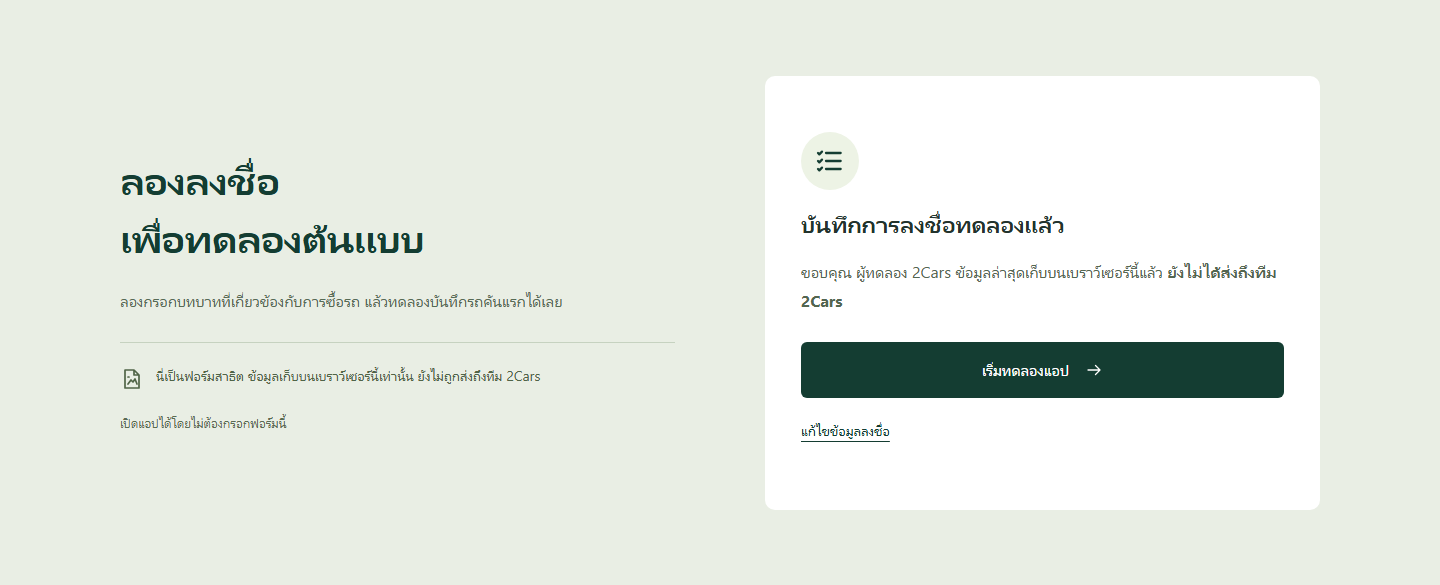
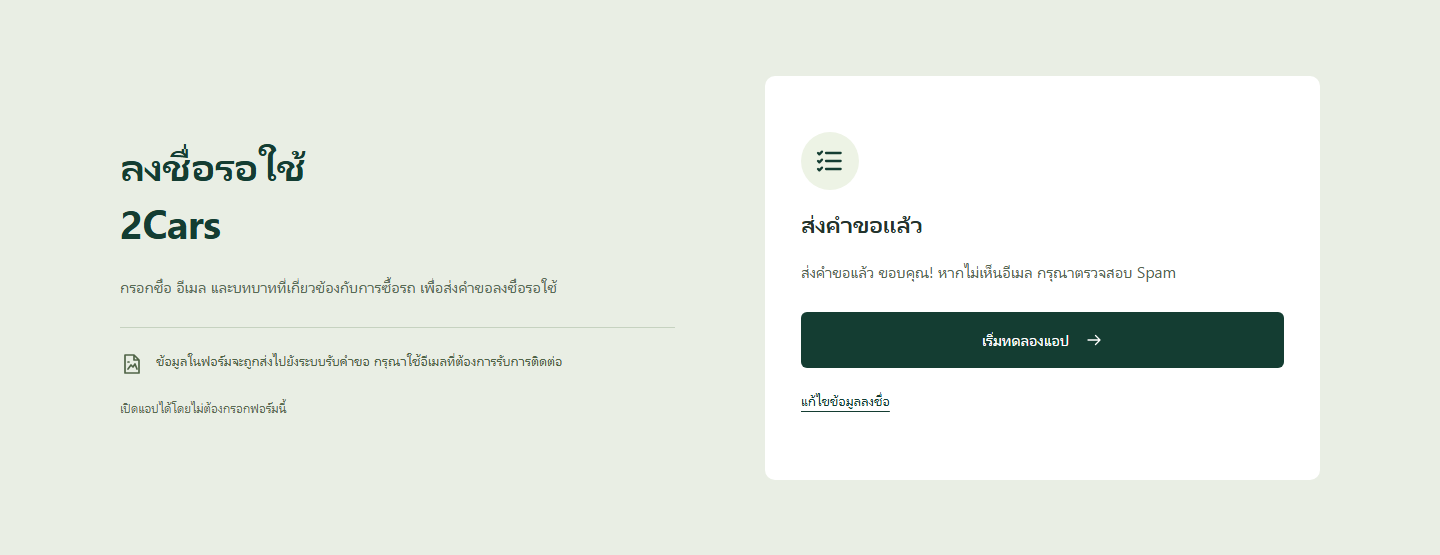
[add] Webhook for Form

diff --git a/src/Landing.tsx b/src/Landing.tsx
@@ -1,5 +1,5 @@
 import { useEffect, useRef, useState, type FormEvent } from 'react';
-import { saveDemoSignup, validateSignup, type SignupDraft, type SignupSubmission } from './signup';
+import { submitSignup, validateSignup, SIGNUP_SUCCESS, SIGNUP_FAILURE, type SignupDraft } from './signup';
 import './landing.css';
 
 function LandingIcon({ name, size = 24 }: { name: 'car' | 'checklist' | 'evidence' | 'report' | 'arrow'; size?: number }) {
@@ -30,17 +30,19 @@ const steps = [
 ];
 const faqs = [
   { question: '2Cars ยืนยันประวัติรถสวมซากได้ไหม?', answer: 'ไม่ได้ 2Cars ช่วยบันทึกข้อมูลและติดตามการตรวจของทีม ไม่เชื่อมฐานข้อมูลทางการ ไม่ยืนยันประวัติ และไม่รับรองว่ารถปลอดภัย' },
-  { question: 'ทดลองฟรี ต้องสมัครสมาชิกก่อนหรือเปล่า?', answer: 'ต้นแบบนี้ทดลองฟรีและเปิดแอปได้โดยไม่ต้องมีบัญชี ฟอร์มลงชื่อเป็นฟอร์มสาธิต ไม่จำเป็นต้องกรอกก่อนทดลองแอป' },
+  { question: 'ทดลองฟรี ต้องสมัครสมาชิกก่อนหรือเปล่า?', answer: 'ต้นแบบนี้ทดลองฟรีและเปิดแอปได้โดยไม่ต้องมีบัญชี ฟอร์มลงชื่อรอใช้แยกจากการทดลองแอป ไม่จำเป็นต้องกรอกก่อนทดลองแอป' },
   { question: 'ข้อมูลรถเก็บที่ไหน ทีมเปิดดูจากเครื่องอื่นได้ไหม?', answer: 'ข้อมูลอยู่ในเบราว์เซอร์เดิมบนอุปกรณ์เดิม ไม่มีการซิงก์ข้ามเครื่อง รุ่นทดลองนี้เหมาะกับการใช้เครื่องร่วมกันและส่งต่อรายงานให้ทีม' },
   { question: 'รูปและไฟล์หลักฐานยังอยู่หลังปิดแอปไหม?', answer: 'ชื่อไฟล์ หมายเหตุ และแหล่งข้อมูลจะบันทึกไว้ แต่ไฟล์จริงดูได้เฉพาะรอบที่แนบ เมื่อรีโหลดหรือเปิดแอปใหม่ต้องแนบไฟล์อีกครั้งเพื่อเปิดดู' },
   { question: 'รายงานส่งต่อให้ทีมได้อย่างไร?', answer: 'เปิดรายงานแล้วพิมพ์หรือบันทึกเป็น PDF ขนาด A4 หนึ่งหน้า รายงานแสดงชื่อหลักฐาน ไม่ได้ฝังไฟล์จริง และสถานะ “ตรวจแล้ว” ไม่ได้หมายถึงผ่านหรือปลอดภัย' },
 ];
 
-function DemoSignup() {
-  const [draft, setDraft] = useState<SignupDraft>({ name: '', email: '', role: '' });
+function WaitlistSignup() {
+  const [draft, setDraft] = useState<SignupDraft>({ name: '', email: '', extra: '' });
   const [errors, setErrors] = useState<Partial<Record<keyof SignupDraft, string>>>({});
   const [failure, setFailure] = useState('');
-  const [submission, setSubmission] = useState<SignupSubmission | null>(null);
+  const [submission, setSubmission] = useState(false);
+  const [isSending, setIsSending] = useState(false);
+  const sending = useRef(false);
   const form = useRef<HTMLFormElement>(null);
   const confirmationTitle = useRef<HTMLHeadingElement>(null);
   const hadSubmission = useRef(false);
@@ -49,8 +51,9 @@ function DemoSignup() {
     else if (hadSubmission.current) form.current?.querySelector<HTMLInputElement>('input')?.focus();
     hadSubmission.current = !!submission;
   }, [submission]);
-  function submit(event: FormEvent) {
+  async function submit(event: FormEvent) {
     event.preventDefault();
+    if (sending.current) return;
     setFailure('');
     const validation = validateSignup(draft);
     setErrors(validation);
@@ -58,21 +61,24 @@ function DemoSignup() {
       form.current?.querySelector<HTMLInputElement>(`[name="${Object.keys(validation)[0]}"]`)?.focus();
       return;
     }
-    try { setSubmission(saveDemoSignup(window.localStorage, draft)); }
-    catch { setFailure('บันทึกไม่สำเร็จ กรุณาตรวจการอนุญาตจัดเก็บข้อมูลของเบราว์เซอร์แล้วลองอีกครั้ง'); }
+    sending.current = true;
+    setIsSending(true);
+    try { await submitSignup(draft); setSubmission(true); }
+    catch { setFailure(SIGNUP_FAILURE); }
+    finally { sending.current = false; setIsSending(false); }
   }
   const fields: { key: keyof SignupDraft; label: string; placeholder: string; type: string; autoComplete?: string }[] = [
     { key: 'name', label: 'ชื่อ', placeholder: 'ชื่อที่ต้องการให้เรียก', type: 'text', autoComplete: 'name' },
     { key: 'email', label: 'อีเมล', placeholder: 'name@example.com', type: 'email', autoComplete: 'email' },
-    { key: 'role', label: 'คุณเกี่ยวข้องกับการซื้อรถในบทบาทใด?', placeholder: 'เช่น ผู้ดูแลเต็นท์ เจ้าของเต็นท์ หรือช่าง', type: 'text' },
+    { key: 'extra', label: 'คุณเกี่ยวข้องกับการซื้อรถในบทบาทใด?', placeholder: 'เช่น ผู้ดูแลเต็นท์ เจ้าของเต็นท์ หรือช่าง', type: 'text' },
   ];
   return <div className="signup-panel">
-    <p className="landing-sr-only" role="status" aria-live="polite">{submission ? 'บันทึกการลงชื่อทดลองบนเบราว์เซอร์นี้แล้ว ยังไม่ได้ส่งถึงทีม 2Cars' : ''}</p>
-    {submission ? <div className="signup-confirmation"><span className="signup-success-icon"><LandingIcon name="checklist" size={32} /></span><h3 id="signup-confirmation-title" tabIndex={-1} ref={confirmationTitle}>บันทึกการลงชื่อทดลองแล้ว</h3><p>ขอบคุณ {submission.name} ข้อมูลล่าสุดเก็บบนเบราว์เซอร์นี้แล้ว <strong>ยังไม่ได้ส่งถึงทีม 2Cars</strong></p><a className="landing-button" href="/app.html">เริ่มทดลองแอป<LandingIcon name="arrow" size={18} /></a><button className="landing-text-button" onClick={() => setSubmission(null)}>แก้ไขข้อมูลลงชื่อ</button></div> : <form ref={form} onSubmit={submit} noValidate aria-label="ฟอร์มลงชื่อทดลอง">
-      {fields.map(field => <label key={field.key} htmlFor={`signup-${field.key}`}>{field.label}<input id={`signup-${field.key}`} name={field.key} type={field.type} autoComplete={field.autoComplete} required maxLength={field.key === 'email' ? 254 : 120} value={draft[field.key]} placeholder={field.placeholder} aria-invalid={!!errors[field.key]} aria-describedby={errors[field.key] ? `signup-error-${field.key}` : undefined} onChange={event => { setDraft({ ...draft, [field.key]: event.target.value }); setErrors({ ...errors, [field.key]: undefined }); }} />{errors[field.key] && <span className="signup-field-error" id={`signup-error-${field.key}`}>{errors[field.key]}</span>}</label>)}
-      <p className="signup-privacy">ฟอร์มสาธิต: เก็บเฉพาะข้อมูลลงชื่อล่าสุดบนเบราว์เซอร์นี้ ยังไม่ส่งถึงทีม และไม่ส่งอีเมลอัตโนมัติ</p>
+    <p className="landing-sr-only" role="status" aria-live="polite">{submission ? SIGNUP_SUCCESS : isSending ? 'กำลังส่งคำขอ…' : ''}</p>
+    {submission ? <div className="signup-confirmation"><span className="signup-success-icon"><LandingIcon name="checklist" size={32} /></span><h3 id="signup-confirmation-title" tabIndex={-1} ref={confirmationTitle}>ส่งคำขอแล้ว</h3><p>{SIGNUP_SUCCESS}</p><a className="landing-button" href="/app.html">เริ่มทดลองแอป<LandingIcon name="arrow" size={18} /></a><button className="landing-text-button" onClick={() => setSubmission(false)}>แก้ไขข้อมูลลงชื่อ</button></div> : <form ref={form} onSubmit={submit} noValidate aria-label="ฟอร์มลงชื่อรอใช้" aria-busy={isSending}>
+      {fields.map(field => <label key={field.key} htmlFor={`signup-${field.key}`}>{field.label}<input id={`signup-${field.key}`} name={field.key} type={field.type} autoComplete={field.autoComplete} required disabled={isSending} maxLength={field.key === 'email' ? 254 : 120} value={draft[field.key]} placeholder={field.placeholder} aria-invalid={!!errors[field.key]} aria-describedby={errors[field.key] ? `signup-error-${field.key}` : undefined} onChange={event => { setDraft({ ...draft, [field.key]: event.target.value }); setErrors({ ...errors, [field.key]: undefined }); }} />{errors[field.key] && <span className="signup-field-error" id={`signup-error-${field.key}`}>{errors[field.key]}</span>}</label>)}
+      <p className="signup-privacy">ชื่อ อีเมล และบทบาทจะถูกส่งเพื่อขอลงชื่อรอใช้ ไม่บันทึกข้อมูลลงชื่อไว้ในเบราว์เซอร์</p>
       {failure && <p className="signup-field-error" role="alert">{failure}</p>}
-      <button className="landing-button" type="submit">บันทึกการลงชื่อทดลอง<LandingIcon name="arrow" size={18} /></button>
+      <button className="landing-button" type="submit" disabled={isSending}>{isSending ? 'กำลังส่งคำขอ…' : 'ลงชื่อรอใช้'}<LandingIcon name="arrow" size={18} /></button>
     </form>}
   </div>;
 }
@@ -93,10 +99,10 @@ export default function Landing() {
 
       <section className="landing-how landing-container" id="how-it-works" aria-labelledby="how-title"><div className="landing-section-heading"><h2 id="how-title">เริ่มจากรถหนึ่งคัน<br />แล้วค่อยเก็บข้อมูลให้ครบ</h2><a className="landing-secondary-link" href="/app.html">เปิดแอปทดลอง<LandingIcon name="arrow" size={17} /></a></div><ol className="steps-list">{steps.map((step, index) => <li key={step.title}><span className="step-number" aria-hidden="true">{index + 1}</span><h3>{step.title}</h3><p>{step.text}</p></li>)}</ol></section>
 
-      <section className="landing-signup" id="signup" aria-labelledby="signup-title"><div className="landing-container signup-layout"><div className="signup-intro"><h2 id="signup-title">ลองลงชื่อ<br />เพื่อทดลองต้นแบบ</h2><p>ลองกรอกบทบาทที่เกี่ยวข้องกับการซื้อรถ แล้วทดลองบันทึกรถคันแรกได้เลย</p><div className="signup-demo-note"><LandingIcon name="evidence" /><p>นี่เป็นฟอร์มสาธิต ข้อมูลเก็บบนเบราว์เซอร์นี้เท่านั้น ยังไม่ถูกส่งถึงทีม 2Cars</p></div><p className="signup-optional">เปิดแอปได้โดยไม่ต้องกรอกฟอร์มนี้</p></div><DemoSignup /></div></section>
+      <section className="landing-signup" id="signup" aria-labelledby="signup-title"><div className="landing-container signup-layout"><div className="signup-intro"><h2 id="signup-title">ลงชื่อรอใช้<br />2Cars</h2><p>กรอกชื่อ อีเมล และบทบาทที่เกี่ยวข้องกับการซื้อรถ เพื่อส่งคำขอลงชื่อรอใช้</p><div className="signup-demo-note"><LandingIcon name="evidence" /><p>ข้อมูลในฟอร์มจะถูกส่งไปยังระบบรับคำขอ กรุณาใช้อีเมลที่ต้องการรับการติดต่อ</p></div><p className="signup-optional">เปิดแอปได้โดยไม่ต้องกรอกฟอร์มนี้</p></div><WaitlistSignup /></div></section>
 
       <section className="landing-faq landing-container" id="faq" aria-labelledby="faq-title"><h2 id="faq-title">ก่อนลองใช้<br />มีเรื่องไหนที่อยากรู้?</h2><div className="faq-list">{faqs.map(faq => <details key={faq.question}><summary>{faq.question}<span className="faq-expand" aria-hidden="true" /></summary><p>{faq.answer}</p></details>)}</div></section>
     </main>
-    <footer className="landing-footer" id="contact"><div className="landing-container"><div className="footer-top"><div><a className="landing-brand" href="/"><span className="landing-brand-mark"><LandingIcon name="car" size={25} /></span><span>2Cars</span></a><p>ทีมพัฒนา 2Cars<br />ต้นแบบเครื่องมือบันทึกการตรวจรถก่อนซื้อ</p></div><div className="footer-links"><a href="/app.html">ทดลองแอป</a><a href="#signup">ฟอร์มลงชื่อทดลอง</a><a href="#faq">คำถามที่พบบ่อย</a><p>หน้านี้ยังไม่มีช่องทางติดต่อทีมโดยตรง<br />ฟอร์มสาธิตยังไม่ส่งข้อมูลถึงทีม</p></div></div><div className="footer-bottom"><span>2Cars · {new Date().getFullYear()}</span><span>บันทึกเพื่อประกอบการพิจารณา ไม่ยืนยันประวัติรถ</span></div></div></footer>
+    <footer className="landing-footer" id="contact"><div className="landing-container"><div className="footer-top"><div><a className="landing-brand" href="/"><span className="landing-brand-mark"><LandingIcon name="car" size={25} /></span><span>2Cars</span></a><p>ทีมพัฒนา 2Cars<br />ต้นแบบเครื่องมือบันทึกการตรวจรถก่อนซื้อ</p></div><div className="footer-links"><a href="/app.html">ทดลองแอป</a><a href="#signup">ฟอร์มลงชื่อรอใช้</a><a href="#faq">คำถามที่พบบ่อย</a><p>หน้านี้ยังไม่มีช่องทางติดต่อทีมโดยตรง<br />ลงชื่อรอใช้ผ่านฟอร์มด้านบน</p></div></div><div className="footer-bottom"><span>2Cars · {new Date().getFullYear()}</span><span>บันทึกเพื่อประกอบการพิจารณา ไม่ยืนยันประวัติรถ</span></div></div></footer>
   </div>;
 }

diff --git a/tests/browser.test.ts b/tests/browser.test.ts
@@ -18,7 +18,7 @@ class Browser {
     socket.addEventListener('message', event => {
       const message = JSON.parse(String(event.data));
       if (message.method === 'Page.loadEventFired') this.loaded.forEach(resolve => resolve());
-      if (process.env.DEBUG_CDP) console.log('CDP received', JSON.stringify(message).slice(0, 500));
+      if (process.env.DEBUG_CDP) console.log('CDP received', { id: message.id, method: message.method });
       const pending = this.pending.get(message.id);
       if (pending) {
         this.pending.delete(message.id);
@@ -110,19 +110,37 @@ test('complete desktop/mobile workflow, storage errors and one-page PDF', { time
     await browser.wait(`document.querySelector('.landing-app-preview img')?.complete && document.querySelector('.landing-app-preview img').naturalWidth > 0`);
     const landingMetrics = await browser.send('Page.getLayoutMetrics');
     await writeFile('docs/qa/landing-full.png', Buffer.from((await browser.send('Page.captureScreenshot', { captureBeyondViewport: true, clip: { x: 0, y: 0, width: 1440, height: landingMetrics.cssContentSize.height, scale: 1 } })).data, 'base64'));
-    await browser.click('บันทึกการลงชื่อทดลอง');
+    await browser.evaluate(`window.__signupRequests=[]; window.fetch=(_url,init)=>{ window.__signupRequests.push({method:init.method,mode:init.mode,fields:Object.fromEntries(init.body),isUrlEncoded:init.body instanceof URLSearchParams,hasHeaders:!!init.headers}); return new Promise((resolve,reject)=>{window.__resolveSignup=()=>resolve({});window.__rejectSignup=()=>reject(new TypeError('Network failure'));}); };`);
+    assert.deepEqual(await browser.evaluate(`Array.from(document.querySelectorAll('.signup-panel input')).map(input=>input.name)`), ['name','email','extra']);
+    await browser.click('ลงชื่อรอใช้');
     assert.equal(await browser.evaluate(`document.querySelectorAll('.signup-field-error').length`), 3);
     assert.equal(await browser.evaluate(`localStorage.getItem('2cars:signup-demo:v1')`), null);
     await browser.input('ชื่อ', 'ผู้ทดลอง 2Cars');
     await browser.input('อีเมล', 'demo@example.com');
     await browser.input('คุณเกี่ยวข้องกับการซื้อรถในบทบาทใด?', 'ผู้ดูแลเต็นท์');
-    await browser.click('บันทึกการลงชื่อทดลอง');
-    await browser.wait(`document.querySelector('.signup-confirmation')?.textContent.includes('ยังไม่ได้ส่งถึงทีม')`);
+    await browser.input('อีเมล', 'invalid-email');
+    await browser.click('ลงชื่อรอใช้');
+    assert.equal(await browser.evaluate(`window.__signupRequests.length`), 0, 'invalid email must not submit');
+    await browser.input('อีเมล', 'demo@example.com');
+    await browser.click('ลงชื่อรอใช้');
+    assert.ok(await browser.evaluate(`document.querySelector('.signup-panel button[type="submit"]').disabled`));
+    assert.equal(await browser.evaluate(`document.querySelector('.signup-panel button[type="submit"]').textContent`), 'กำลังส่งคำขอ…');
+    await browser.evaluate(`document.querySelector('.signup-panel form').dispatchEvent(new Event('submit',{bubbles:true,cancelable:true}));`);
+    assert.equal(await browser.evaluate(`window.__signupRequests.length`), 1, 'pending request must prevent duplicate submission');
+    assert.deepEqual(await browser.evaluate(`window.__signupRequests[0]`), {method:'POST',mode:'no-cors',fields:{name:'ผู้ทดลอง 2Cars',email:'demo@example.com',extra:'ผู้ดูแลเต็นท์'},isUrlEncoded:true,hasHeaders:false});
+    assert.equal(await browser.evaluate(`document.body.innerText.includes('hook.eu1.make.com')`), false, 'destination must not be visible');
+    await browser.evaluate(`window.__resolveSignup()`);
+    await browser.wait(`document.querySelector('.signup-confirmation')?.textContent.includes('ส่งคำขอแล้ว ขอบคุณ! หากไม่เห็นอีเมล กรุณาตรวจสอบ Spam')`);
     assert.equal(await browser.evaluate(`document.activeElement?.id`), 'signup-confirmation-title', 'confirmation should receive keyboard focus');
-    assert.equal(await browser.evaluate(`JSON.parse(localStorage.getItem('2cars:signup-demo:v1')).email`), 'demo@example.com');
+    assert.equal(await browser.evaluate(`localStorage.getItem('2cars:signup-demo:v1')`), null, 'new signup must not persist email locally');
     await browser.click('แก้ไขข้อมูลลงชื่อ');
     assert.equal(await browser.evaluate(`document.activeElement?.id`), 'signup-name', 'editing should return focus to form');
-    await browser.click('บันทึกการลงชื่อทดลอง');
+    await browser.click('ลงชื่อรอใช้');
+    await browser.evaluate(`window.__rejectSignup()`);
+    await browser.wait(`document.querySelector('.signup-panel [role="alert"]')?.textContent === 'ส่งไม่สำเร็จ กรุณาลองอีกครั้ง'`);
+    assert.equal(await browser.evaluate(`document.querySelector('.signup-panel button[type="submit"]').disabled`), false);
+    await browser.click('ลงชื่อรอใช้');
+    await browser.evaluate(`window.__resolveSignup()`);
     await browser.wait(`!!document.querySelector('.signup-confirmation')`);
     await browser.evaluate(`window.scrollTo(0,0)`);
     await writeFile('docs/qa/landing-desktop.png', Buffer.from((await browser.send('Page.captureScreenshot', { captureBeyondViewport: false })).data, 'base64'));
@@ -269,6 +287,19 @@ test('complete desktop/mobile workflow, storage errors and one-page PDF', { time
     await browser.wait(`document.querySelector('[role="alert"]')?.textContent.includes('อ่านข้อมูล')`);
     assert.equal(await browser.evaluate(`localStorage.getItem(${JSON.stringify(STORAGE_KEY)})`), '{broken');
     assert.ok(await browser.evaluate(`Array.from(document.querySelectorAll('button')).filter(b=>b.textContent.trim()==='เพิ่มรถ').every(b=>b.disabled)`));
+    if (process.env.LIVE_WAITLIST_EMAIL) {
+      await browser.load('Page.navigate', { url: 'http://127.0.0.1:5173' });
+      await browser.wait(`!!document.querySelector('.signup-panel form')`);
+      const marker = `2Cars integration test ${new Date().toISOString()}`;
+      await browser.input('ชื่อ', marker);
+      await browser.input('อีเมล', process.env.LIVE_WAITLIST_EMAIL);
+      await browser.input('คุณเกี่ยวข้องกับการซื้อรถในบทบาทใด?', 'ผู้ดูแลเต็นท์ (ทดสอบระบบ)');
+      await browser.click('ลงชื่อรอใช้');
+      await browser.wait(`!!document.querySelector('.signup-confirmation') || !!document.querySelector('.signup-panel [role="alert"]')`);
+      const clientResolved = await browser.evaluate(`!!document.querySelector('.signup-confirmation')`);
+      await writeFile('docs/qa/webhook-live-result.json', JSON.stringify({ marker, fields: ['name','email','extra'], clientFetchResolved: clientResolved, makeHistoryVerified: false, sheetVerified: false, inboxVerified: false }, null, 2));
+      console.log(clientResolved ? 'LIVE_TEST: browser fetch resolved; backend and inbox verification still required' : 'LIVE_TEST: network error; backend receipt not confirmed');
+    }
   } finally {
     browser?.socket.close();
     child.kill();

diff --git a/src/signup.test.ts b/src/signup.test.ts
@@ -1,26 +1,28 @@
 import { describe, it } from 'node:test';
 import assert from 'node:assert/strict';
-import { saveDemoSignup, validateSignup, SIGNUP_KEY } from './signup.ts';
+import { submitSignup, validateSignup } from './signup.ts';
 
-describe('landing demo signup', () => {
-  it('requires name, valid email and role', () => {
-    assert.deepEqual(Object.keys(validateSignup({ name: '', email: 'bad', role: '' })), ['name', 'email', 'role']);
-    assert.deepEqual(validateSignup({ name: 'ผู้ทดลอง', email: 'demo@example.com', role: 'ผู้ดูแลเต็นท์' }), {});
+describe('Make waitlist submission', () => {
+  it('requires name, valid email and extra before sending', async () => {
+    assert.deepEqual(Object.keys(validateSignup({ name: '', email: 'bad', extra: '' })), ['name', 'email', 'extra']);
+    assert.deepEqual(validateSignup({ name: 'ผู้ทดลอง', email: 'demo@example.com', extra: 'ผู้ดูแลเต็นท์' }), {});
+    await assert.rejects(submitSignup({ name: '', email: 'bad', extra: '' }, async () => assert.fail('invalid form must not send')));
   });
-  it('saves only the latest signup under a key separate from vehicle storage', () => {
-    let storedKey = '', storedValue = '';
-    const result = saveDemoSignup({ setItem: (key, value) => { storedKey = key; storedValue = value; } }, { name: ' ผู้ทดลอง ', email: ' Demo@Example.com ', role: ' ผู้ดูแลเต็นท์ ' });
-    assert.equal(storedKey, SIGNUP_KEY);
-    const saved = JSON.parse(storedValue);
-    assert.equal(saved.name, 'ผู้ทดลอง');
-    assert.equal(saved.email, 'demo@example.com');
-    assert.equal(saved.role, 'ผู้ดูแลเต็นท์');
-    assert.equal(saved.schemaVersion, 1);
-    assert.equal(saved.submittedAt, result.submittedAt);
-    assert.notEqual(SIGNUP_KEY, 'vehicle-inspection-mvp:v1');
+  it('POSTs exactly three URL-encoded fields with no-cors and no JSON headers', async () => {
+    let called = false;
+    await submitSignup({ name: ' ผู้ทดลอง ', email: ' Demo@Example.com ', extra: ' ผู้ดูแลเต็นท์ ' }, async (url, init) => {
+      called = true;
+      assert.ok(typeof url === 'string' && url.startsWith('https://hook.eu1.make.com/'));
+      assert.equal(init?.method, 'POST');
+      assert.equal(init?.mode, 'no-cors');
+      assert.equal(init?.headers, undefined);
+      assert.ok(init?.body instanceof URLSearchParams);
+      assert.deepEqual([...init.body.entries()], [['name', 'ผู้ทดลอง'], ['email', 'demo@example.com'], ['extra', 'ผู้ดูแลเต็นท์']]);
+      return new Proxy({} as Response, { get: (_target, property) => property === 'then' ? undefined : assert.fail('opaque response must not be inspected') });
+    });
+    assert.ok(called);
   });
-  it('does not write invalid submissions and propagates denied storage', () => {
-    assert.throws(() => saveDemoSignup({ setItem: () => assert.fail('should not write') }, { name: '', email: 'bad', role: '' }));
-    assert.throws(() => saveDemoSignup({ setItem: () => { throw new Error('quota'); } }, { name: 'ทดสอบ', email: 'demo@example.com', role: 'ช่าง' }));
+  it('propagates network failures without logging or exposing the destination', async () => {
+    await assert.rejects(submitSignup({ name: 'ทดสอบ', email: 'demo@example.com', extra: 'ช่าง' }, async () => { throw new TypeError('Network failure'); }), TypeError);
   });
 });

diff --git a/src/signup.ts b/src/signup.ts
@@ -1,21 +1,21 @@
-export interface SignupDraft { name: string; email: string; role: string }
-export interface SignupSubmission extends SignupDraft { schemaVersion: 1; submittedAt: string }
-export const SIGNUP_KEY = '2cars:signup-demo:v1';
+export interface SignupDraft { name: string; email: string; extra: string }
+const WEBHOOK_URL = 'https://hook.eu1.make.com/2d3dgil2ojj3mtwifsa5cwxco4nzmyl4';
+export const SIGNUP_SUCCESS = 'ส่งคำขอแล้ว ขอบคุณ! หากไม่เห็นอีเมล กรุณาตรวจสอบ Spam';
+export const SIGNUP_FAILURE = 'ส่งไม่สำเร็จ กรุณาลองอีกครั้ง';
 
 export function validateSignup(draft: SignupDraft): Partial<Record<keyof SignupDraft, string>> {
   const errors: Partial<Record<keyof SignupDraft, string>> = {};
   if (!draft.name.trim()) errors.name = 'กรุณากรอกชื่อที่ต้องการให้เรียก';
   if (!/^[^\s@]+@[^\s@]+\.[^\s@]+$/.test(draft.email.trim())) errors.email = 'กรุณากรอกอีเมลให้ครบ เช่น name@example.com';
-  if (!draft.role.trim()) errors.role = 'กรุณาระบุบทบาท เช่น ผู้ดูแลเต็นท์ หรือช่าง';
+  if (!draft.extra.trim()) errors.extra = 'กรุณาระบุบทบาท เช่น ผู้ดูแลเต็นท์ หรือช่าง';
   return errors;
 }
 
-export function saveDemoSignup(storage: Pick<Storage, 'setItem'>, draft: SignupDraft): SignupSubmission {
+export async function submitSignup(draft: SignupDraft, fetcher: typeof fetch = fetch): Promise<void> {
   if (Object.keys(validateSignup(draft)).length) throw new Error('ข้อมูลลงชื่อไม่ครบ');
-  const submission: SignupSubmission = {
-    schemaVersion: 1, name: draft.name.trim(), email: draft.email.trim().toLowerCase(),
-    role: draft.role.trim(), submittedAt: new Date().toISOString(),
-  };
-  storage.setItem(SIGNUP_KEY, JSON.stringify(submission));
-  return submission;
+  await fetcher(WEBHOOK_URL, {
+    method: 'POST', mode: 'no-cors',
+    body: new URLSearchParams({ name: draft.name.trim(), email: draft.email.trim().toLowerCase(), extra: draft.extra.trim() }),
+  });
+  // no-cors responses are opaque. Do not read status, ok, or response body.
 }

diff --git a/README.md b/README.md
@@ -12,9 +12,9 @@ npm.cmd run dev
 
 เปิด **http://127.0.0.1:5173/** สำหรับ landing page ภาษาไทยของ **2Cars** กด “ลองใช้ฟรี” เพื่อเข้าแอปที่ **http://127.0.0.1:5173/app.html** ใน Chrome หรือ Edge ทั้งสองหน้าใช้ origin เดิม ข้อมูลรถที่เคยบันทึกไว้ยังอยู่ ใช้เบราว์เซอร์และโปรไฟล์เดิมทุกครั้ง หากใช้ `localhost` แทน `127.0.0.1` จะเป็นข้อมูลคนละชุด
 
-Landing มี Hero, ปัญหาจากสรุปสัมภาษณ์ผู้ประกอบการ 1 คน, ประโยชน์, วิธีใช้ 3 ขั้นตอน, ฟอร์มสาธิต, FAQ 5 ข้อ และ Footer ไม่มีคำพูดถอดเทป รีวิว ตัวเลขผู้ใช้ หรือพาร์ทเนอร์สมมติ
+Landing มี Hero, ปัญหาจากสรุปสัมภาษณ์ผู้ประกอบการ 1 คน, ประโยชน์, วิธีใช้ 3 ขั้นตอน, ฟอร์มลงชื่อรอใช้, FAQ 5 ข้อ และ Footer ไม่มีคำพูดถอดเทป รีวิว ตัวเลขผู้ใช้ หรือพาร์ทเนอร์สมมติ
 
-ฟอร์มสาธิตเก็บเฉพาะชื่อ อีเมล บทบาท และเวลาของการลงชื่อล่าสุดบนเบราว์เซอร์ใน key `2cars:signup-demo:v1` แยกจากข้อมูลรถ ไม่ส่งถึงทีม ไม่ส่งอีเมล และไม่จำเป็นต้องกรอกก่อนทดลองแอป ยังไม่มีชื่อสมาชิกทีม อีเมล หรือช่องทางติดต่อจริงที่ได้รับจากผู้ใช้ จึงไม่ใส่ลิงก์ติดต่อสมมติใน Footer
+ฟอร์มส่ง `name`, `email`, `extra` ไป Make ด้วย POST แบบ `no-cors` และ `URLSearchParams` ไม่ส่ง JSON ไม่เก็บข้อมูลลงชื่อใหม่ในเบราว์เซอร์ และไม่จำเป็นต้องกรอกก่อนทดลองแอป ปุ่มปิดการส่งซ้ำระหว่างกำลังส่ง ข้อความ “ส่งคำขอแล้ว” ไม่ยืนยันว่า Make, Sheets หรืออีเมลสำเร็จ เพราะหน้าเว็บอ่าน response ไม่ได้ ดูผลทดสอบจริงและขั้นตอนตรวจปลายทาง/Publish ใน `docs/webhook-verification.md` อีเมลที่ผู้ใช้ให้สำหรับทดสอบไม่ถูกนำมาเผยแพร่เป็นช่องทางติดต่อใน Footer
 
 แพ็กเกจในเครื่องนี้พร้อมใช้งานแล้ว การติดตั้งบนเครื่องอื่นที่มีอินเทอร์เน็ตใช้ `npm ci` (บน PowerShell ใช้ `npm.cmd ci` หาก `npm.ps1` ถูกบล็อก)
 
@@ -54,7 +54,7 @@ npm.cmd run preview
 - `src/model.ts`: data model, เช็กลิสต์, validation, อ่าน/เขียน storage และรถตัวอย่าง
 - `src/App.tsx`: รายการรถ ฟอร์ม เช็กลิสต์ สรุป รายงาน และดูหลักฐาน
 - `src/Landing.tsx`, `src/landing.css`: landing page ภาษาไทย ใช้ภาพหน้าจอแอปจริงจาก `public/images/app-preview.png`
-- `src/signup.ts`: validation และการบันทึกฟอร์มสาธิตบนเครื่อง
+- `src/signup.ts`: validation และ POST ฟอร์มลงชื่อรอใช้ไป Make
 - `src/styles.css`: responsive layout และ CSS สำหรับพิมพ์
 - `src/model.test.ts`: unit tests ใช้ test runner ที่มากับ Node
 - `tests/browser.test.ts`: integration tests แบบ headless ผ่าน Chromium CDP ใช้โปรไฟล์แยกใน `.cache` ไม่เปิดข้อมูลเบราว์เซอร์ของผู้ใช้

diff --git a/docs/webhook-verification.md b/docs/webhook-verification.md
@@ -1,0 +1,39 @@
+# Make waitlist integration — 2026-10-07
+
+## Implemented
+
+- Existing form and styles retained; third input name changed from role to extra.
+- Client validation precedes request. POST uses mode no-cors and URLSearchParams with exactly name, email, extra; no custom Content-Type or JSON.
+- Disabled submit/input controls and a synchronous ref guard prevent concurrent requests. The button shows sending state; rejection restores retry with existing values.
+- Resolved fetch displays: ส่งคำขอแล้ว ขอบคุณ! หากไม่เห็นอีเมล กรุณาตรวจสอบ Spam
+- Rejected fetch displays: ส่งไม่สำเร็จ กรุณาลองอีกครั้ง
+- No response status, ok or body inspection. No automatic retry, destination logging, destination display or new local signup storage.
+
+## Evidence and limits
+
+- Unit tests check exact request fields/options, invalid email and rejection, using an opaque-response proxy that fails if inspected.
+- Browser tests mock transport to verify all three HTML input names, payload, disabled/sending state, duplicate prevention, error/retry, exact confirmation and keyboard focus. Original app and report regression checks remain included.
+- Build and 11 unit tests passed. There is no lint script in this project.
+- One authorized live test using the supplied inbox was attempted. It produced a network error; a separate host reachability probe returned EACCES in this execution environment. Receipt by Make is not confirmed.
+- The live marker and unverified downstream statuses are in qa/webhook-live-result.json. It contains no destination URL.
+- Supplied Make and Sheets links were inaccessible to the read-only web tool. No authenticated browser or mail/Sheets connector was available. Run History, spreadsheet row and real inbox delivery are therefore unverified.
+- Read-only code reviewer found no material contract bugs.
+
+## Verify in the owner's account
+
+1. Open the existing Make scenario. Use Run once to capture a test, or enable its intended webhook schedule. Do not create a replacement webhook.
+2. Open the landing in the normal browser. Submit a unique name, a real test inbox and a test role once. The confirmation only means browser fetch resolved, not that downstream modules succeeded.
+3. In Make History, find that run and inspect the webhook input: name, email, extra must be populated. Check the Google Sheets/email modules and their field mappings against those names. Resolve any module error before calling the flow successful.
+4. In the supplied spreadsheet, locate the matching test row and verify all three values. In the supplied inbox, find the matching email and also check Spam. Record actual results; do not infer delivery from the form.
+
+## Publish / Update
+
+Not published. The checkout has a GitHub source remote, but no hosting manifest, deployment workflow or provider configuration. No matching 2Cars/Team3 project was found in the connected Sites account; no new hosting project was created.
+
+On the user's existing static host:
+
+```powershell
+npm.cmd run build
+```
+
+Deploy the entire dist folder, including index.html, app.html, assets and images. If the host is connected to this GitHub repo, push the reviewed changes and trigger its configured deployment instead. Check the production deployment reports success and repeat the form/Make/Sheets/inbox checks from its actual URL. GitHub source alone is not evidence of a published site.

diff --git a/PRODUCT.md b/PRODUCT.md
@@ -15,7 +15,7 @@ Thai used-car dealership staff recording and reviewing vehicles before purchase.
 Record vehicles, evidence sources and inspection status; reveal missing work; produce a one-page report.
 
 ## Landing Page
-2Cars Thai landing page at the root; the inspection app is at /app.html on the same origin. Inherit the green visual system. Hero copy supplied by the user; interview problem copy is paraphrased from the supplied single-interview summary with attribution. Demo signup stores the latest name/email/role locally only, as explicitly selected by the user. No backend submission or email notification. Direct contact information has not been supplied; do not invent it. No testimonials, user counts or partner logos.
+2Cars Thai landing page at the root; the inspection app is at /app.html on the same origin. Inherit the green visual system. Hero copy supplied by the user; interview problem copy is paraphrased from the supplied single-interview summary with attribution. As requested on 2026-10-07, waitlist signup POSTs name/email/extra to the user-supplied Make webhook using no-cors and URLSearchParams. No new local signup persistence. Success means fetch resolved, not verified downstream storage/email delivery. Direct public contact information has not been supplied; the provided test inbox is not a public contact. No testimonials, user counts or partner logos.
 
 ## Operating Context
 One shared trial computer, same browser and origin. No multi-device collaboration. PDF reports may be shared.

diff --git a/docs/progress.md b/docs/progress.md
@@ -27,3 +27,5 @@ Routing: Vite multi-page build (/ and /app.html), same origin preserves vehicle 
 Tests: new signup tests failed for absent implementation, then 11 unit tests passed. Landing/CTA/form/FAQ/320–1024px checks and original app flow passed. Full-page and mobile screenshots captured for review.
 
 Landing review: two P2 findings reproduced by failing browser tests, then fixed (keyboard confirmation/edit focus and in-place legacy hash redirect). Reviewer confirmed both resolved. Browser load waits now use actual navigation-completion events, resolving a timing race exposed in Chrome. Chrome final integration passed; no product behavior was weakened to accommodate the test.
+
+Make waitlist (2026-10-07): replaced demo storage with POST/no-cors/URLSearchParams exactly name,email,extra; no response inspection or destination logging/display. Ref guard and disabled sending state cover double submit; exact success/error copy implemented. Layout/CSS unchanged; related demo copy corrected. Unit11/build/mock browser regression passed. One authorized live attempt failed with network error; host reachability returned EACCES. Make/Sheets/inbox cannot be confirmed with available access. No matching hosting binding or deployment configuration found; not published. See docs/webhook-verification.md for concrete manual verification and deployment steps.
